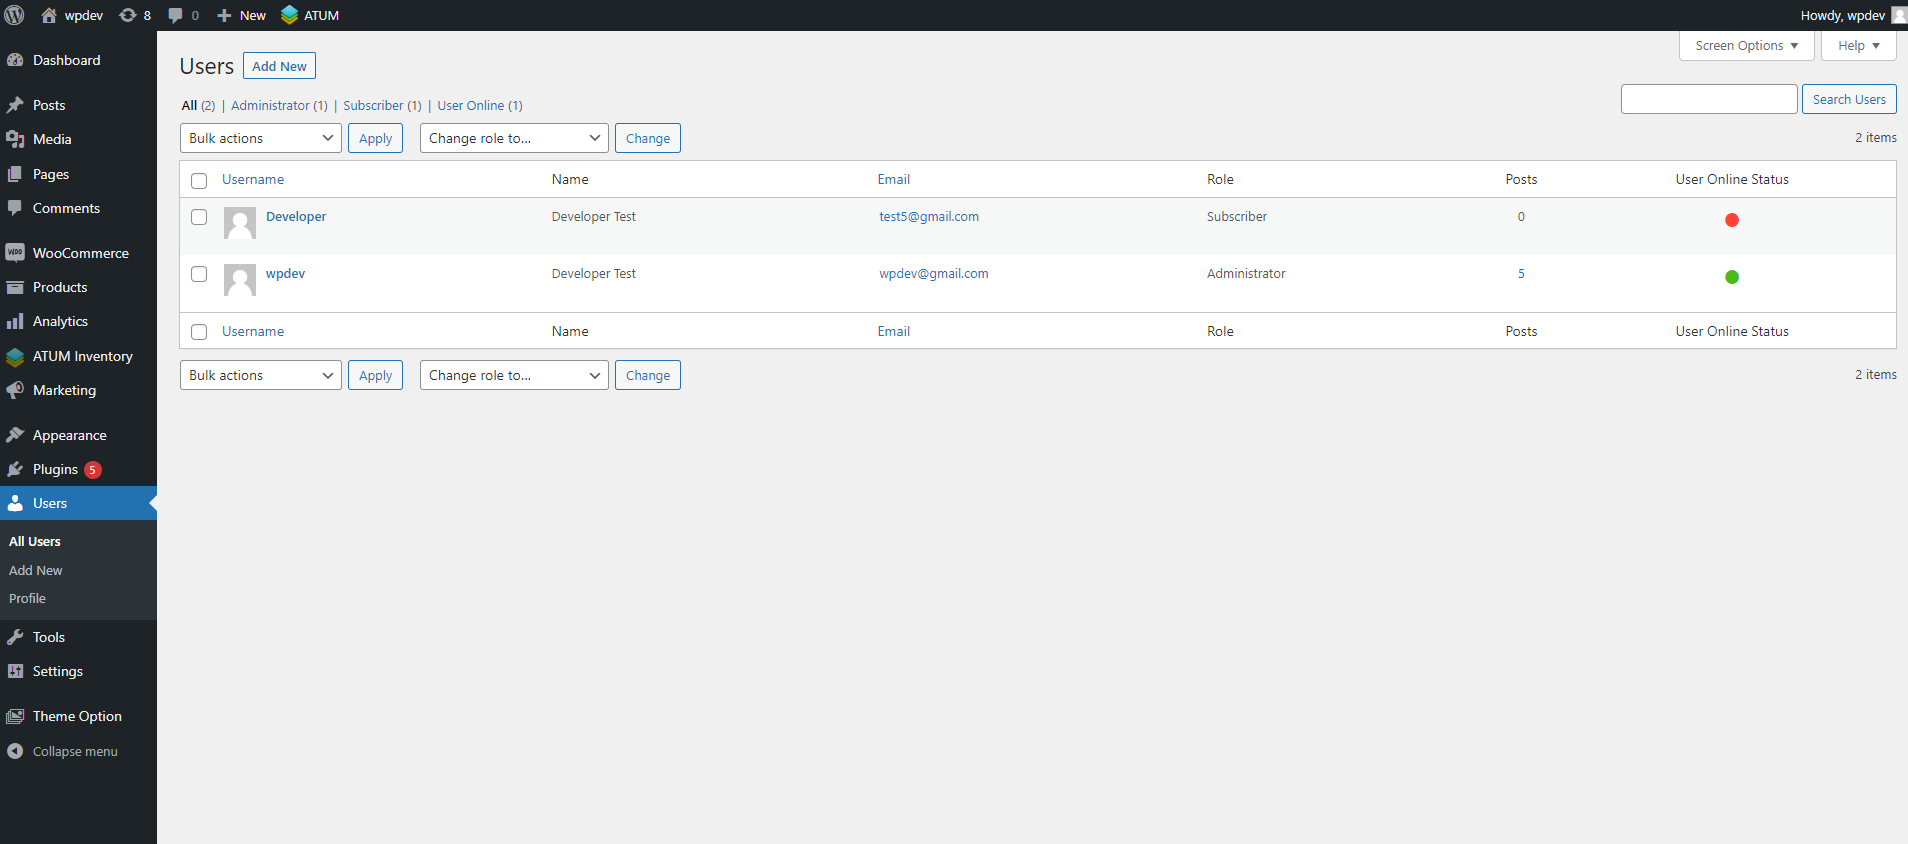
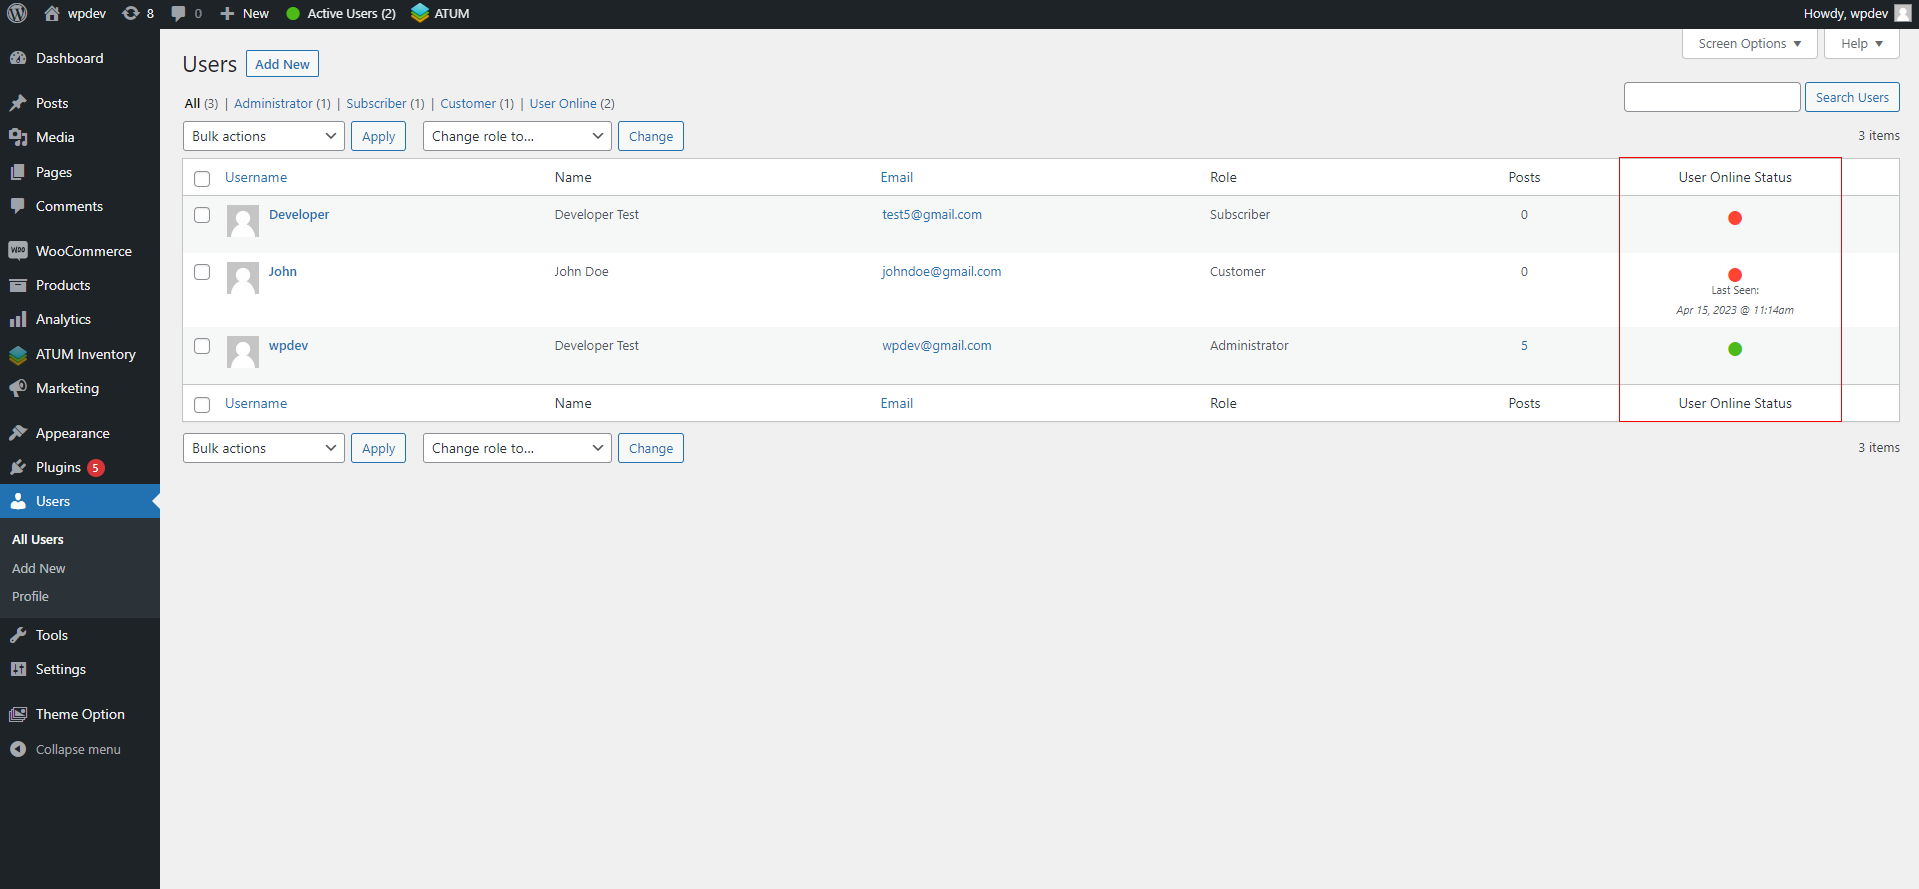
Wordpress latest Version
Wordpress latest Version supported

diff --git a/tags/2.2/assets/js/custom.js b/tags/2.2/assets/js/custom.js
@@ -1,0 +1,22 @@
+jQuery(document).ready(function($) {
+    // Check if the notice has been dismissed
+    if (localStorage.getItem('dismissed_notice')) {
+        // Remove the notice from the DOM
+        $('#wp-online-active-users-notice').remove();
+    }
+
+    // Handle the close button click
+    $('#wp-online-active-users-notice .notice-dismiss').on('click', function() {
+        // Remove the notice from the DOM
+        $('#wp-online-active-users-notice').remove();
+
+        // Set a flag in local storage to indicate notice dismissal
+        localStorage.setItem('dismissed_notice', true);
+    });
+});
+
+jQuery(document).ready(function($) {
+    $('#deactivate-online-active-users').on('click', function() {
+        localStorage.removeItem('dismissed_notice');
+    });
+});

diff --git a/tags/2.2/assets/css/style.css b/tags/2.2/assets/css/style.css
@@ -1,0 +1,34 @@
+.status.column-status, 
+.manage-column.column-status{
+    text-align: center;
+}
+.online-logged-in {
+    color: #4CBB17;
+    font-size: 32px;
+}
+.offline-dot{
+    color:#FF4433;
+    font-size: 32px;
+}
+#wpadminbar #wp-admin-bar-webi_user_link .ab-icon {
+    font-size: 30px !important;
+    top: -9px;
+}
+.webi-active-users{
+    width: 30%;
+    max-width: 100%;
+    background-color: #4CBB17;
+    text-align: center;
+    padding: 15px;
+    height: auto;
+    color: #fff;
+    font-size: 17px;
+    font-weight: 600;
+}
+.webi-active-users small {
+    font-size: 17px;
+    font-weight: 700;
+}
+.widget-area .webi-active-users{
+     width: 100%;
+}

diff --git a/tags/2.2/uninstall.php b/tags/2.2/uninstall.php
@@ -1,0 +1,11 @@
+<?php
+// If uninstall is not called from WordPress, exit.
+if ( ! defined( 'WP_UNINSTALL_PLUGIN' ) ) {
+    exit();
+}
+
+// delete plugin transient
+delete_transient('users_status');
+
+// Clear any cached data or transients
+wp_cache_flush();

diff --git a/tags/2.2/index.php b/tags/2.2/index.php
@@ -1,0 +1,2 @@
+<?php
+// Silence is golden.
